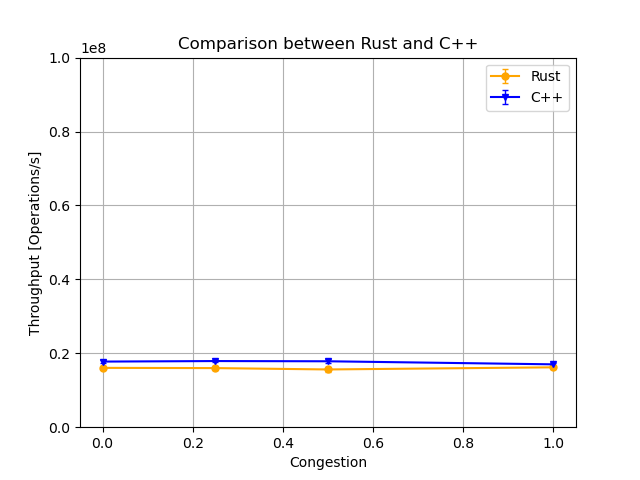
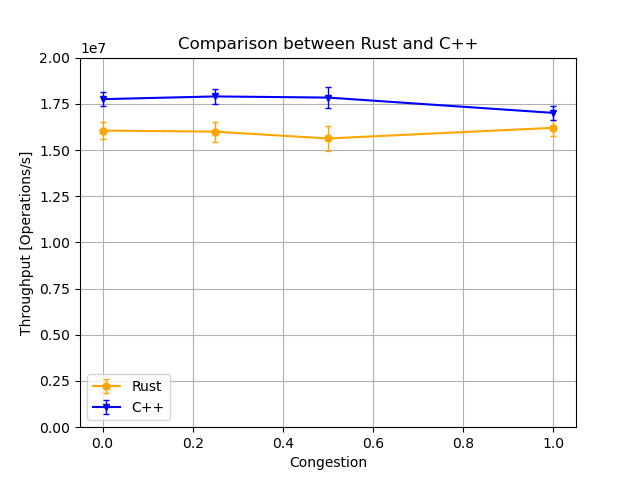
Center curves in graph

diff --git a/hyperfine_scripts/plotter.py b/hyperfine_scripts/plotter.py
@@ -8,7 +8,11 @@ import numpy as np
 # Ugly parameter for fixed number of logn operations, should be argument
 LOG_OPS = 8
 
-MAX_THREADS = 36
+# Values are not greater than this, used for correct y-scale
+Y_MAX = 0.2*(10**LOG_OPS)
+
+# Used for scaling x-axis, perhpas for future use
+# MAX_THREADS = 36
 
 def calculate_throughput(json_file, scan_category):
     with open(json_file, 'r') as file:
@@ -168,7 +172,7 @@ def main():
         plt.ylabel("Time [s]")
     else:
         # Make y-scale same for all plots
-        plt.ylim(0, 10**(LOG_OPS))
+        plt.ylim(0, Y_MAX)
 
         # Scaling options for the x-axis
         # x = np.arange(0, MAX_THREADS + 1)
